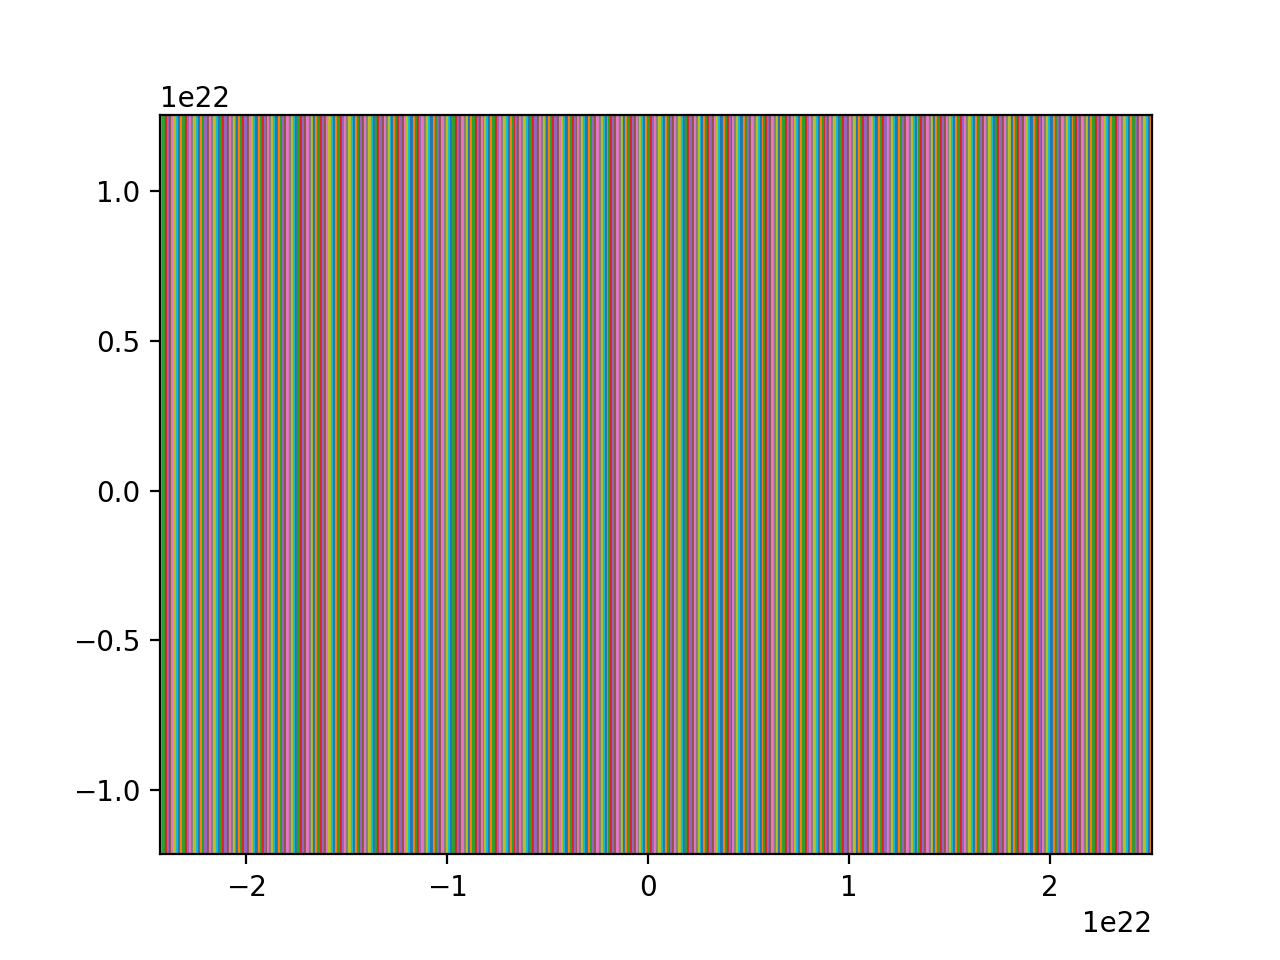
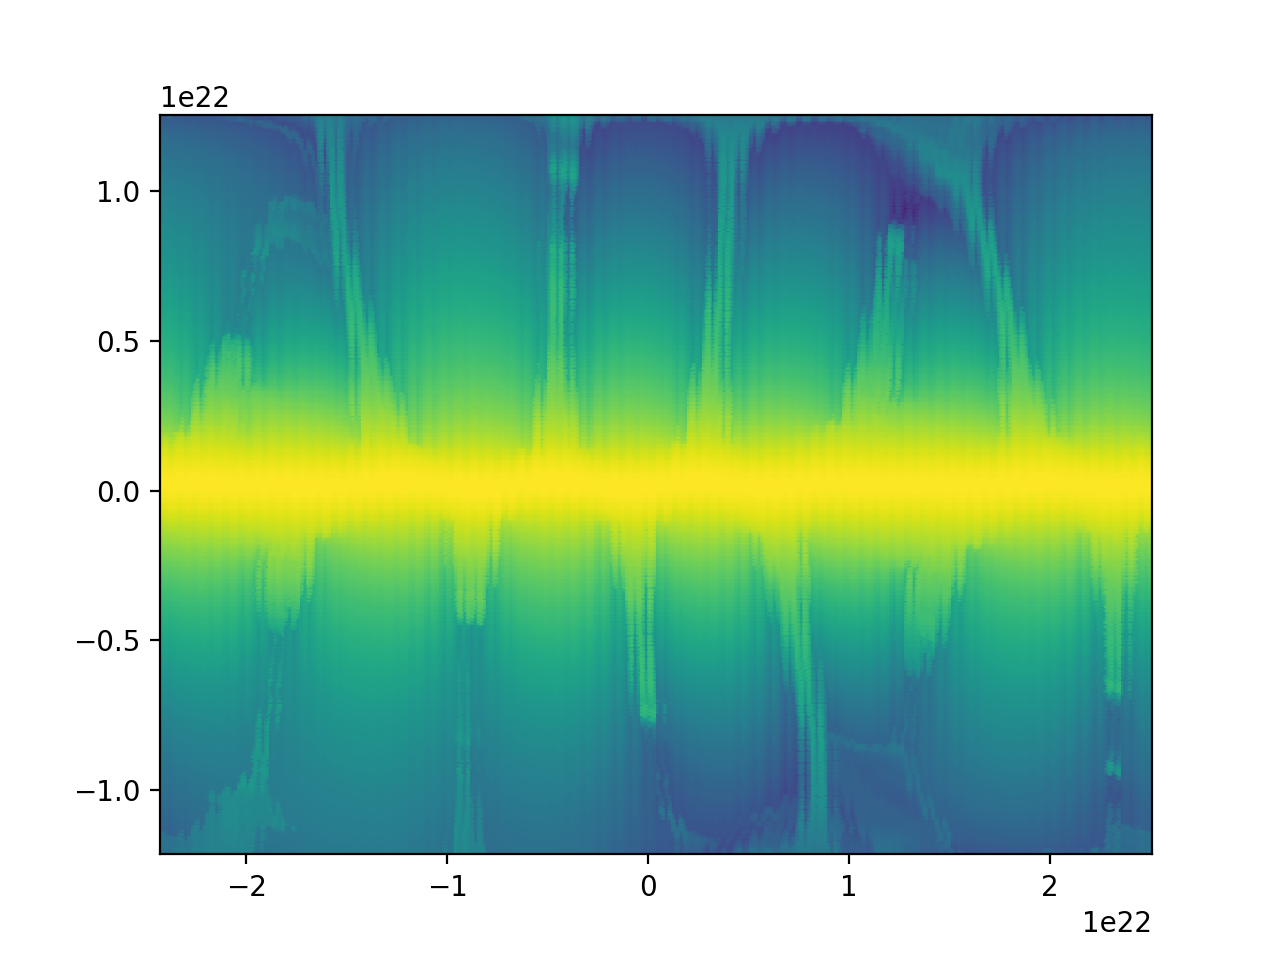
Began interpolations

diff --git a/2D_Interpolations_Detections.py b/2D_Interpolations_Detections.py
@@ -1,0 +1,52 @@
+#!/usr/bin/env python3
+# -*- coding: utf-8 -*-
+"""
+Created on Mon Oct 11 14:42:42 2021
+
+@author: Sherry Wong
+"""
+
+#%%
+## Windows Filenames
+filename = "/Users/wongb/Documents/URS Data/m2_c1_16x8_64x64/More Plot Files/parkerCRs_hdf5_plt_cnt_0080"
+filedirectory = "/Users/wongb/Documents/URS Data/m2_c1_16x8_64x64/More Plot Files"
+pwd = "/Users/wongb/Documents/Python_Scripts"
+#%%
+## Mac filenames
+filename = "/Users/bwong/Downloads/URS_Data/m2_c1_16x8_64x64/More Plot Files/parkerCRs_hdf5_plt_cnt_0080"
+filedirectory = "/Users/bwong/Downloads/URS_Data/m2_c1_16x8_64x64/More Plot Files"
+pwd = "/Users/bwong/URS_FLASH_DataParker"
+
+#%%
+
+import numpy as np
+import sys
+import matplotlib.pyplot as plt
+from matplotlib import ticker, cm #for log scale
+sys.path.insert(0, pwd)
+# import copy
+
+import athena_read as ath
+import h5py
+import hdf5_parser
+
+import scipy.interpolate as interp
+
+#%%
+newOut = hdf5_parser.setup(filename, format = "cartesian")
+x = newOut['posXarray'].flatten()
+y = newOut['posYarray'].flatten()
+z = newOut['densityArray'].flatten()
+# from matplotlib import ticker, cm #for log scale
+# plt.tricontourf(x, y, z, levels=100, locator=ticker.LogLocator())
+
+lev = np.logspace(np.log10(z.min()), np.log10(z.max()), num=1000)
+plt.clf()
+plt.tricontourf(x, y, z, locator=ticker.LogLocator(), levels = lev) #good for irregular Z values
+plt.savefig(pwd + "/Plots/ZcleanB1.png")
+
+#%% interpolate
+
+x = newOut['magXarray'][0]
+y = newOut['posYarray'][0]
+Xslice = interp.interp1d(newOut['magXarray'][0], newOut['posYarray'][0])
